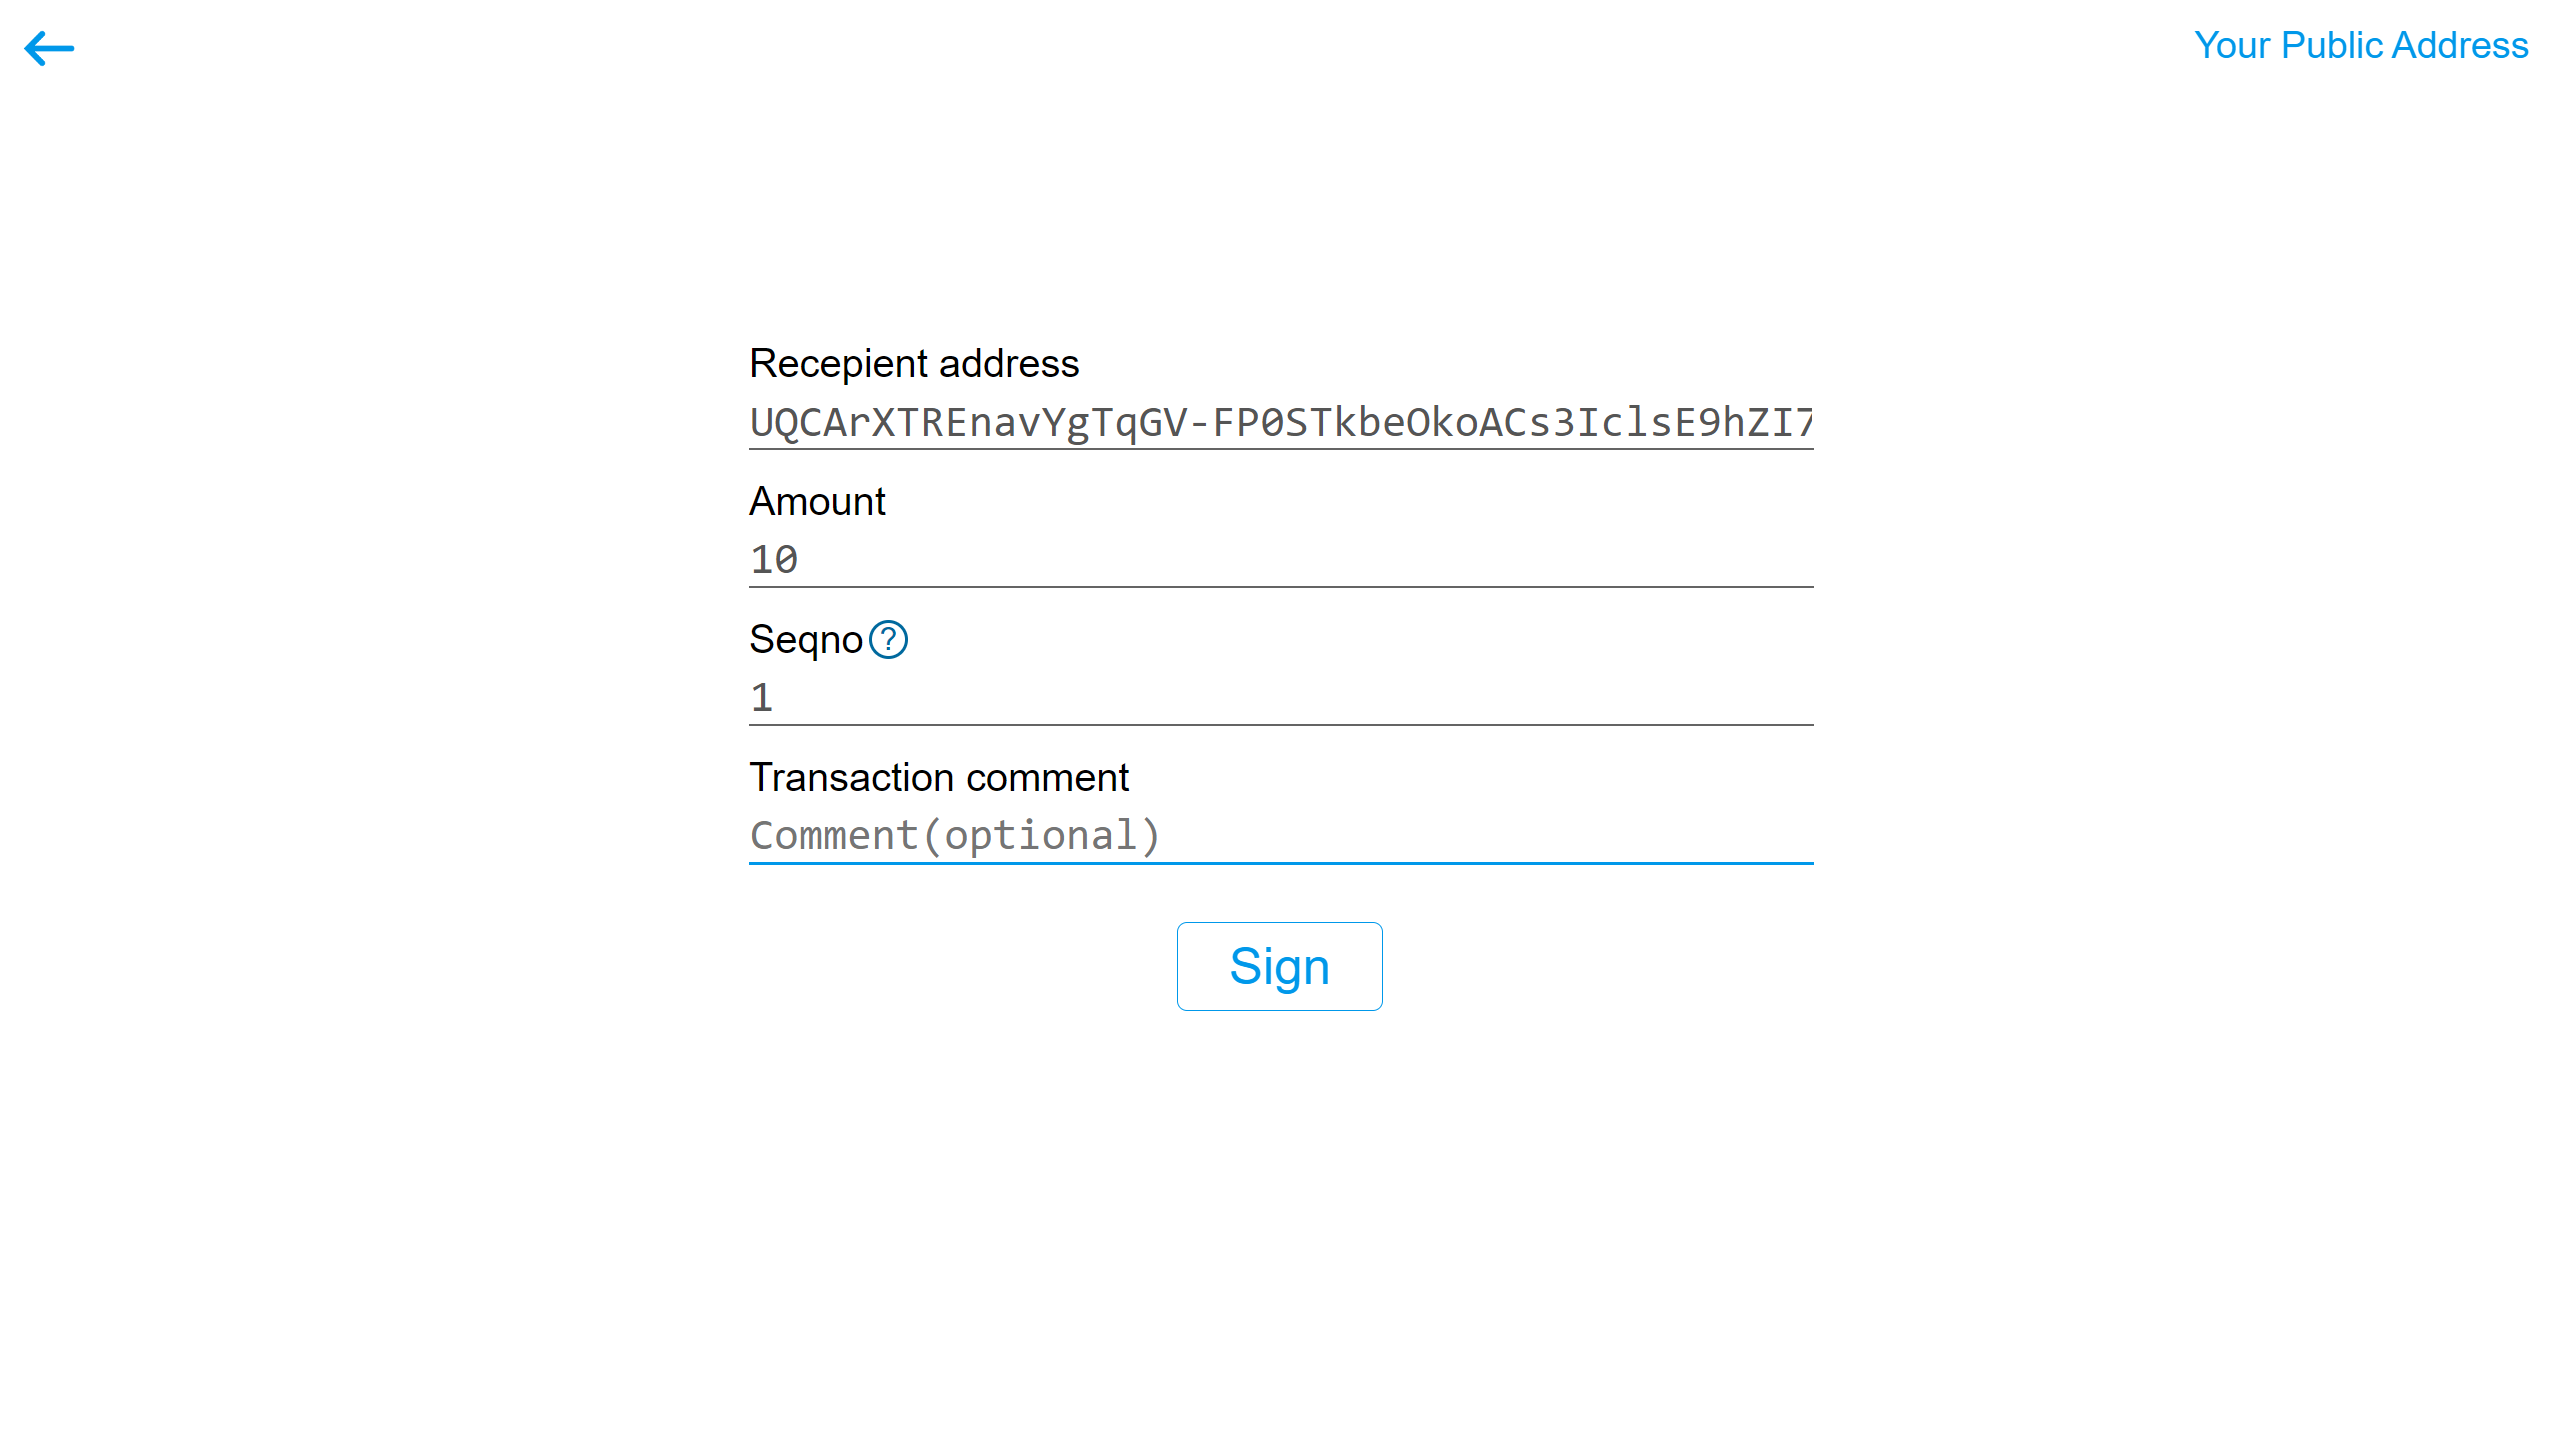
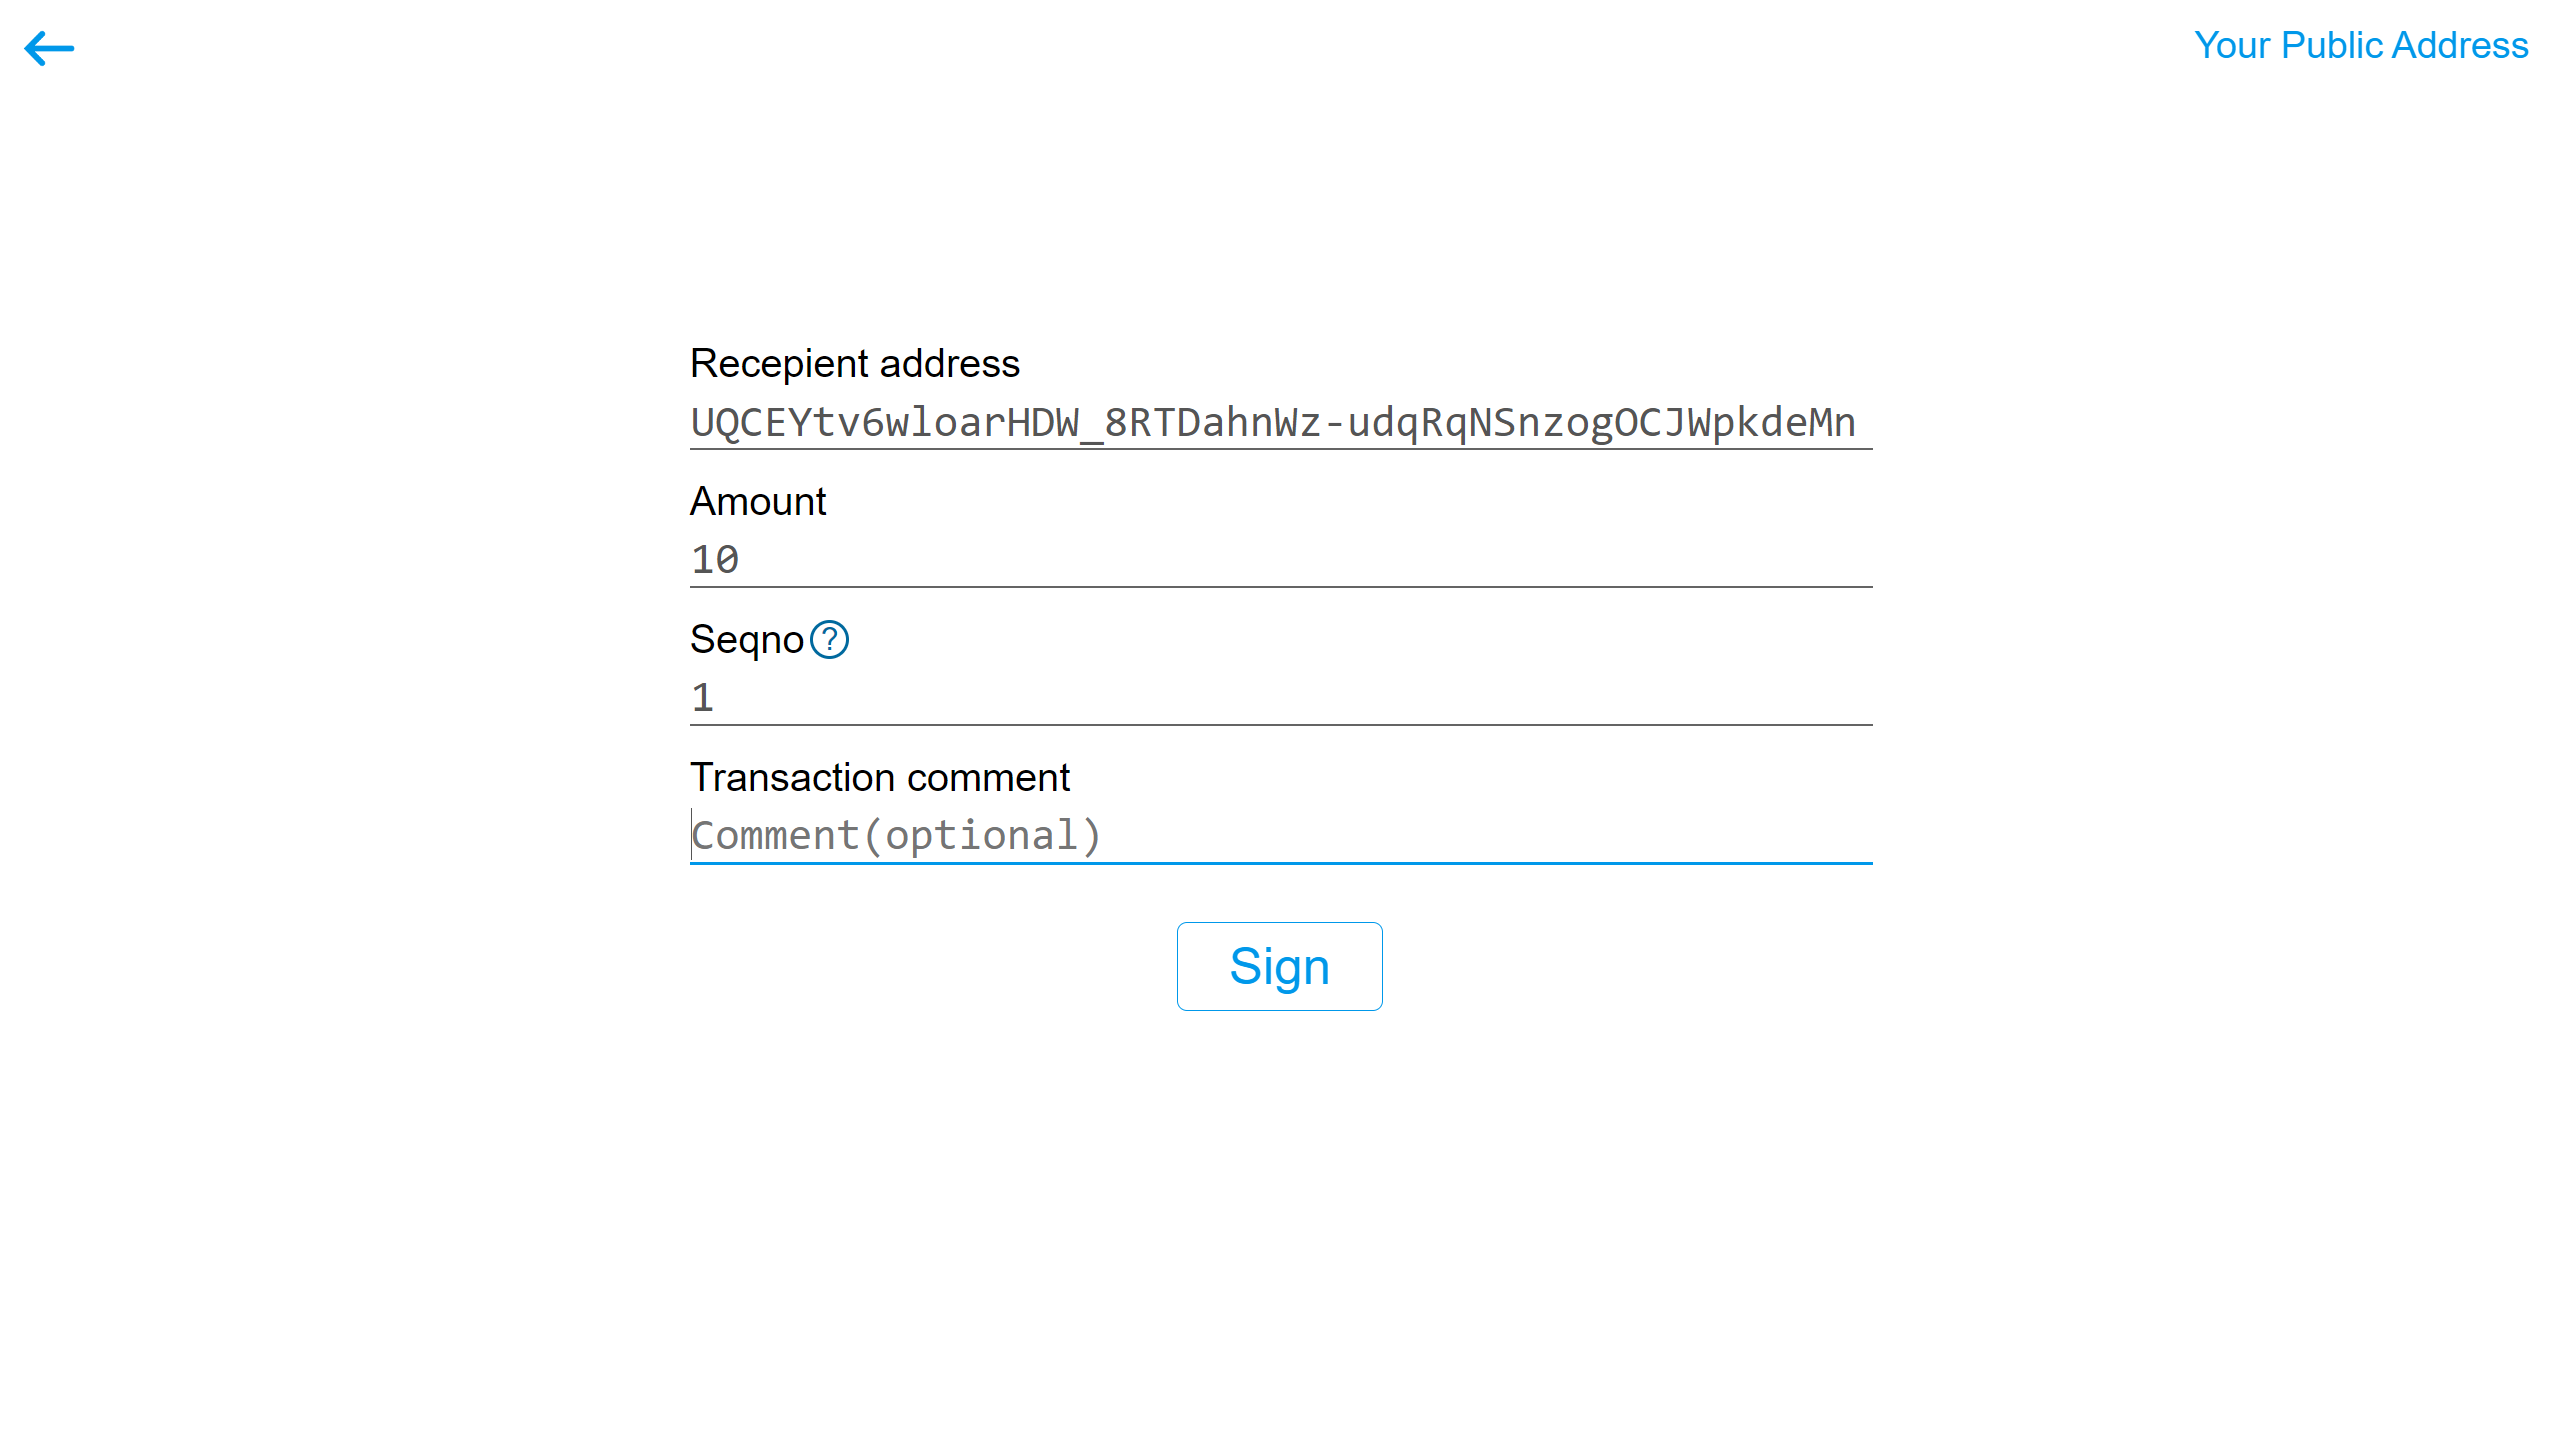
UI resizing fix

diff --git a/styles/styles.css b/styles/styles.css
@@ -39,7 +39,7 @@ body {
 }
 
 .row-sizing-1 {
-    width: 30%;
+    width: 60vh;
     height: 9%;
     margin: 2vh 0;
 }
@@ -47,7 +47,7 @@ body {
 .button-sizing-1 {
     font-size: 3.5vh;
     padding: 0 1%;
-    width: 22%;
+    width: 44vh;
     margin: 1.4vh 1%;
     height: 12%;
 }
@@ -146,7 +146,7 @@ input {
 .input-border-styling-2 {
     border-bottom: 1px solid white;
     margin: 0.6vh 0 1.95vh 0;
-    width: 41.5%;
+    width: 82vh;
 }
 
 .input-styling-3 {
@@ -211,7 +211,7 @@ input:focus {
 }
 
 .label-sizing-5 {
-    width: 41.5%;
+    width: 82vh;
 }
 
 .label-sizing-7 {
@@ -237,7 +237,7 @@ input:focus {
 .label-styling-1 {
     display: inline-flex;
     align-items: center;
-    width: 41.5%;
+    width: 82vh;
     text-align: left;
 }
 
